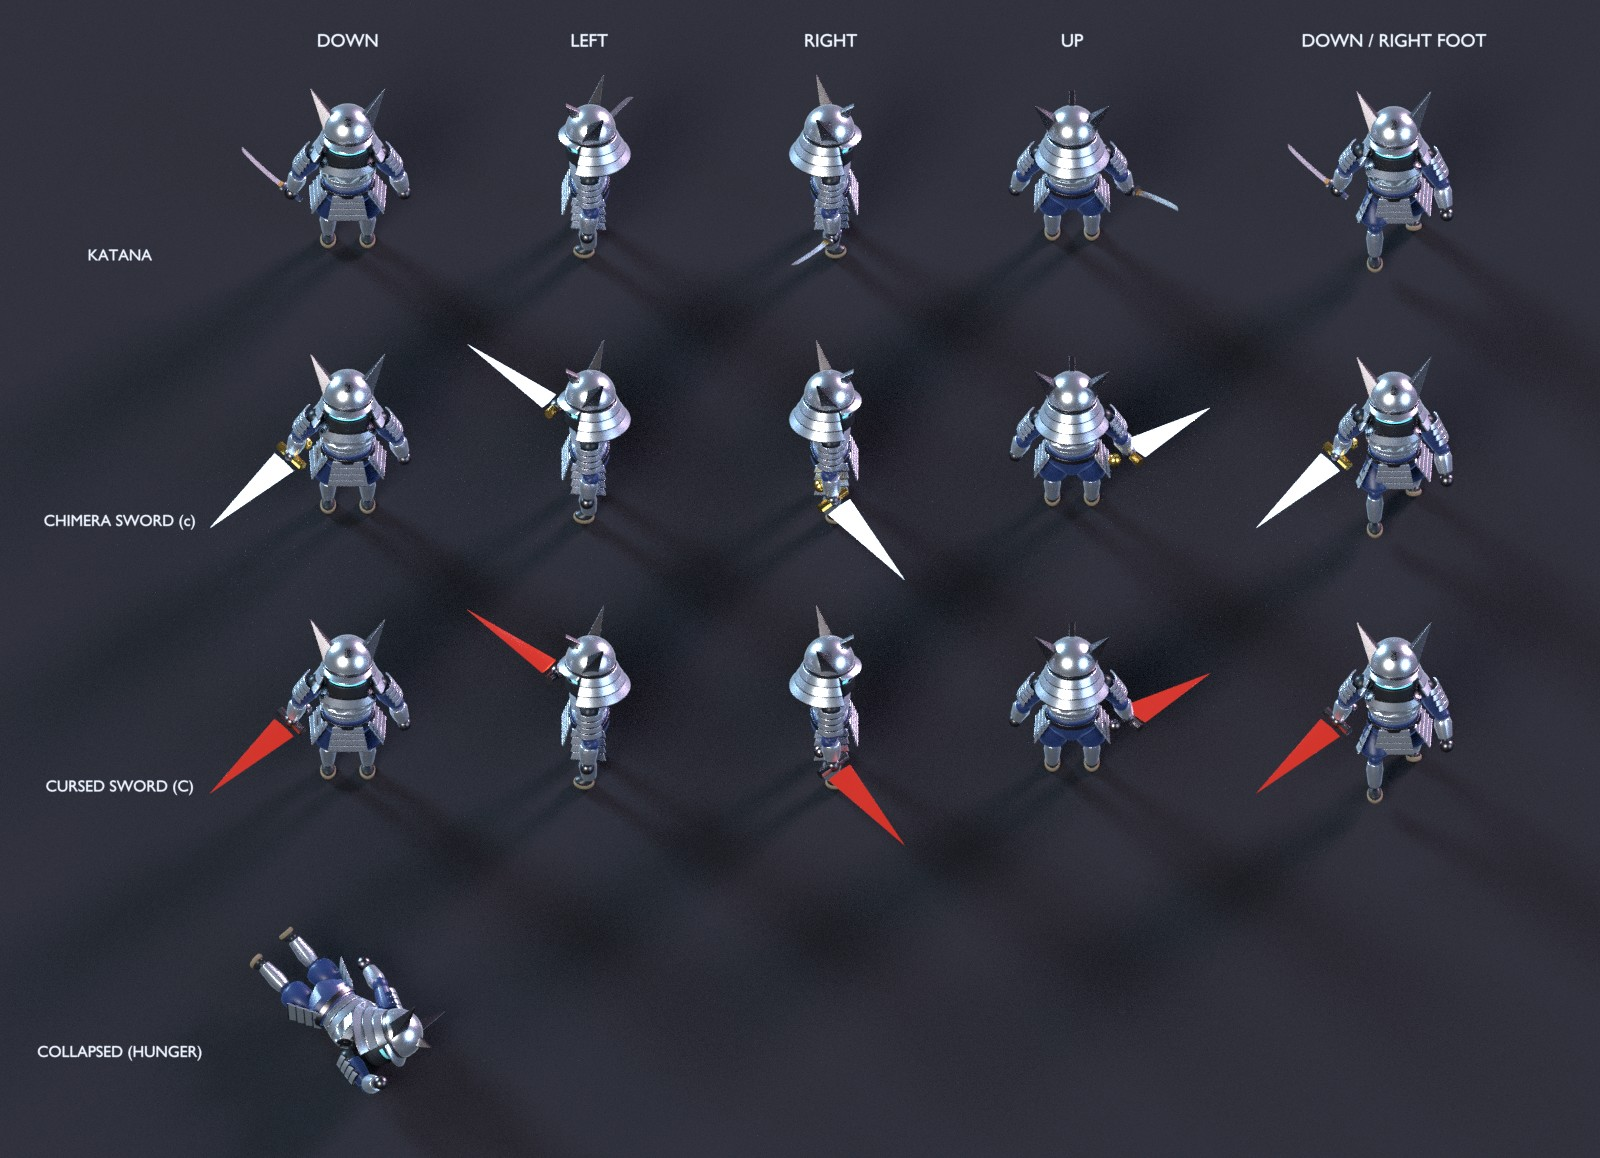
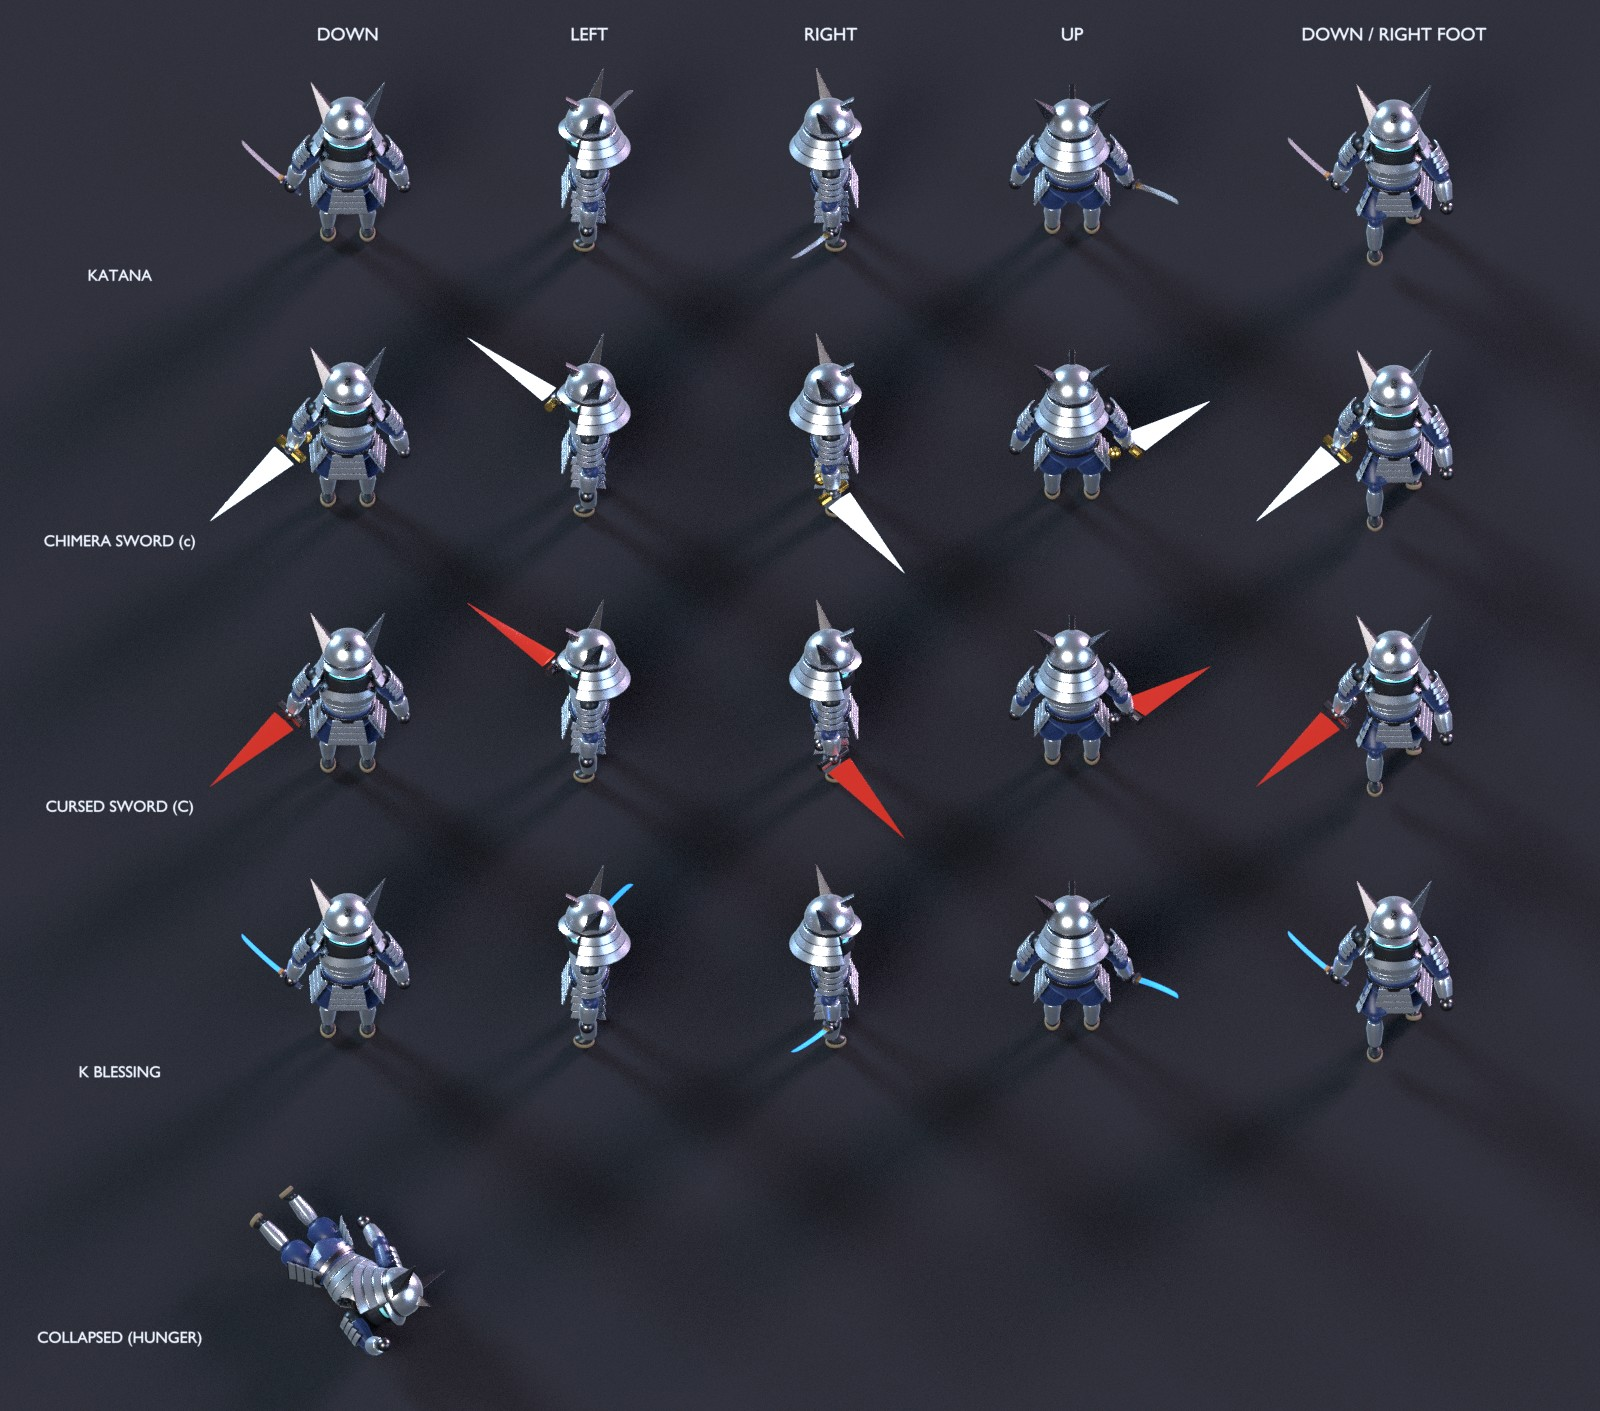
feat: add the K blessing row to the samurai facings preview
Render the katana with its blade glowing blue as a K BLESSING row
(--blessed), restoring the katana's rest grip before each katana row so
both rows share it, and regenerate preview-player-facings.jpg. Document
how the armor and samurai facings previews are made.

diff --git a/dev-samples/3d-stage1/rigged-samurai/render-chibi-sprites.py b/dev-samples/3d-stage1/rigged-samurai/render-chibi-sprites.py
@@ -1,8 +1,10 @@
 """Render the chibi samurai with the armor sprite camera and pose adjustments.
 
-Run after build-chibi.py. Pass -- --facings --chimera --cursed --collapsed
-to write the complete preview-player-facings.jpg. The two sword variants
-come from rigged-armor/hero-rig-chibi.blend.
+Run after build-chibi.py. Pass -- --facings --chimera --cursed --blessed
+--collapsed to write the complete preview-player-facings.jpg. The chimera
+and cursed swords come from rigged-armor/hero-rig-chibi.blend; the K
+blessing is the katana with its blade glowing blue, as in
+../export-samurai-sprites.py.
 """
 
 import math
@@ -38,13 +40,36 @@ def load_armor_sword(rig, prefix):
     return loaded.objects
 
 
-def render_facings(scene, rig, katana, armor, floor, with_chimera, with_cursed, collapsed):
+def blessed_katana(katana_parts):
+    """The katana parts with a copy of the blade glowing blue (the K blessing)."""
+    blade = next(obj for obj in katana_parts if obj.name == 'Katana blade')
+    glowing = blade.copy()
+    glowing.data = blade.data.copy()
+    glowing.name = 'Katana blessed blade'
+    bpy.context.collection.objects.link(glowing)
+    glow = blade.data.materials[0].copy()
+    shader = glow.node_tree.nodes['Principled BSDF']
+    shader.inputs['Base Color'].default_value = (.1, .35, 1, 1)
+    shader.inputs['Emission Color'].default_value = (.03, .3, 1, 1)
+    shader.inputs['Emission Strength'].default_value = 1.5
+    glowing.data.materials.clear()
+    glowing.data.materials.append(glow)
+    return [glowing if obj is blade else obj for obj in katana_parts]
+
+
+def render_facings(scene, rig, katana, armor, floor, with_chimera, with_cursed, with_blessed,
+                   collapsed):
     katana_parts = [obj for obj in katana.children if not obj.hide_render]
     rows = [('KATANA', 0, katana_parts)]
     if with_chimera:
         rows.append(('CHIMERA SWORD (c)', -1.6, load_armor_sword(rig, 'Chimera sword ')))
     if with_cursed:
         rows.append(('CURSED SWORD (C)', -1.6 * len(rows), load_armor_sword(rig, 'Cursed sword ')))
+    if with_blessed:
+        rows.append(('K BLESSING', -1.6 * len(rows), blessed_katana(katana_parts)))
+    katana_rows = [rows[0][2]] + ([rows[-1][2]] if with_blessed else [])
+    scene.frame_set(1)
+    rest_roll = katana.rotation_euler.x
     bpy.data.objects['Studio floor'].location.z = floor - .002
     for light in (obj for obj in scene.objects if obj.type == 'LIGHT'):
         distance = light.location.length
@@ -98,8 +123,12 @@ def render_facings(scene, rig, katana, armor, floor, with_chimera, with_cursed, 
     for row_label, y, sword in rows:
         if expanded:
             label_on_screen(row_label, -3.55, (.8 * -last_y / 2 + y) * math.sqrt(3) / 2, .083)
+        if any(sword is parts for parts in katana_rows):
+            # Each katana row starts from the rest grip; the gait below rekeys it.
+            katana.rotation_euler.x = rest_roll
+            katana.keyframe_insert(data_path='rotation_euler', index=0, frame=1)
         for facing, pose, _, x in columns:
-            if pose == 'walk-right' and sword is katana_parts:
+            if pose == 'walk-right' and any(sword is parts for parts in katana_rows):
                 # Recompute the blade roll for the gait, which uses the rest frame.
                 rig.rotation_euler.z = 0
                 scene.frame_set(1)
@@ -145,7 +174,7 @@ def main():
     args = sys.argv[sys.argv.index('--') + 1:] if '--' in sys.argv else []
     if '--facings' in args:
         render_facings(scene, rig, katana, armor, floor, '--chimera' in args,
-                       '--cursed' in args, '--collapsed' in args)
+                       '--cursed' in args, '--blessed' in args, '--collapsed' in args)
         return
 
     target = Vector((0, .05, .5))

diff --git a/dev-samples/3d-stage1/README.md b/dev-samples/3d-stage1/README.md
@@ -173,6 +173,27 @@ blender --factory-startup --background --threads 4 --python dev-samples/3d-stage
 
 書き出した画像は `PYTHONPATH=src .venv/bin/python dev-samples/3d-stage1/preview-sprite-ui.py` でゲームの描画を画面なしで確認できる。
 
+### プレイヤーの向き別プレビュー
+
+プレイヤーの剣の状態（行）と向き（列: 下・左・右・上、右端は下向きで右足を前に出した姿）、最後の行に飢餓で倒れた姿を並べた確認画像を、甲冑と武士でそれぞれ作る。行は自分の剣（武士は刀）・キメラの剣・呪いの剣・Kの加護の4つ。
+
+| 画像 | モデル | スクリプト |
+| --- | --- | --- |
+| `heroic/preview-player-facings.jpg` | 甲冑（`rigged-armor/hero-rig-chibi.blend`） | `preview-player-facings.py` |
+| `rigged-samurai/preview-player-facings.jpg` | 武士（`rigged-samurai/hero-rig-chibi.blend`） | `rigged-samurai/render-chibi-sprites.py` |
+
+```bash
+# 甲冑: 保存済みの others シーン（build-heroic.py が作る）の照明と床に、描くときに甲冑の chibi を読み込んで並べる
+blender --factory-startup --background --threads 4 --python dev-samples/3d-stage1/preview-player-facings.py
+# 武士: 武士の chibi のシーンで描く。キメラの剣と呪いの剣は甲冑の chibi から借り、Kの加護は刀の刃を青く光らせる
+blender --factory-startup --background --threads 4 --python dev-samples/3d-stage1/rigged-samurai/render-chibi-sprites.py -- --facings --chimera --cursed --blessed --collapsed
+```
+
+- 甲冑は Blender で描いたPNGを ImageMagick の `convert` でJPEGにし、PNGは消す。武士は直接JPEGで書き出す。
+- 甲冑の chibi を作り直したときは、`rigged-armor/build-chibi.py` のあとに甲冑のコマンドを実行する。武士の見た目は甲冑の兜の変更では変わらないが、キメラの剣と呪いの剣は甲冑の chibi から読むので、剣を変えたときは武士のコマンドも実行する。
+- 武士の chibi は `rigged-armor/hero-rig.blend` →（`rigged-samurai/build.py`）→ `rigged-samurai/build-chibi.py` の順で作る。
+- 武士のコマンドで `--facings` を付けないと、`rigged-samurai/sprite-*.png`（下向きの確認画像3枚）を描く。行のオプションを省くと、その行を除いた画像を描く（`--cursed` がないときは `preview-player-facings-katana.jpg` などの別名になる）。
+
 ## 現行キャラクターモデル
 
 `heroic/` は、ゲームで使う現行キャラクターのモデルとプレビューを保存する。
